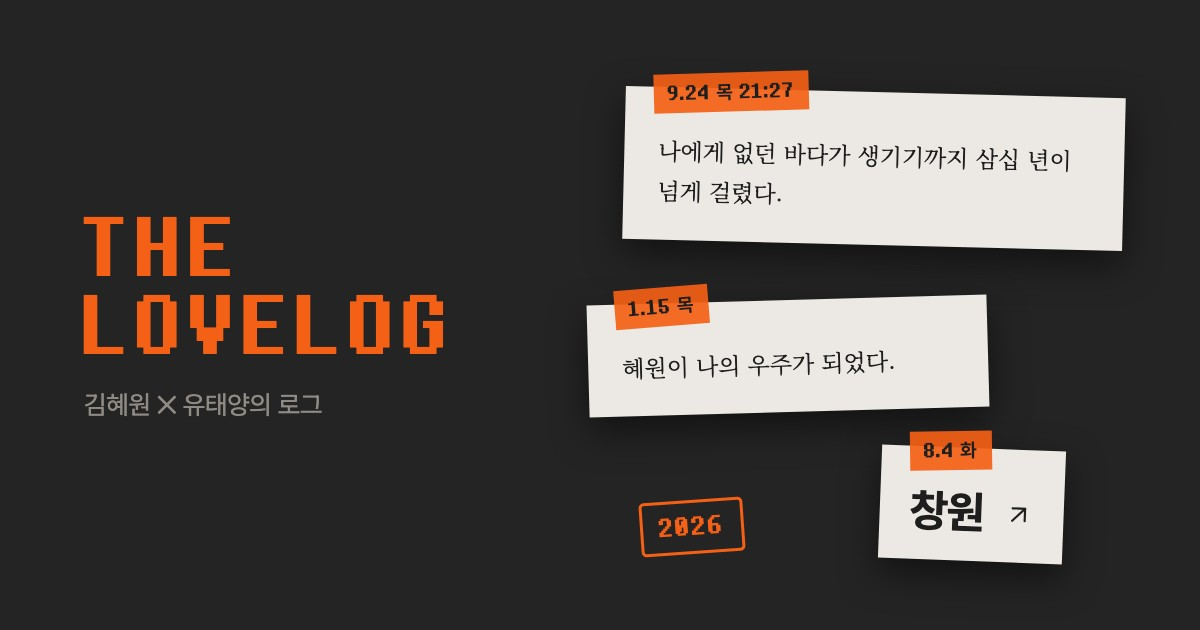
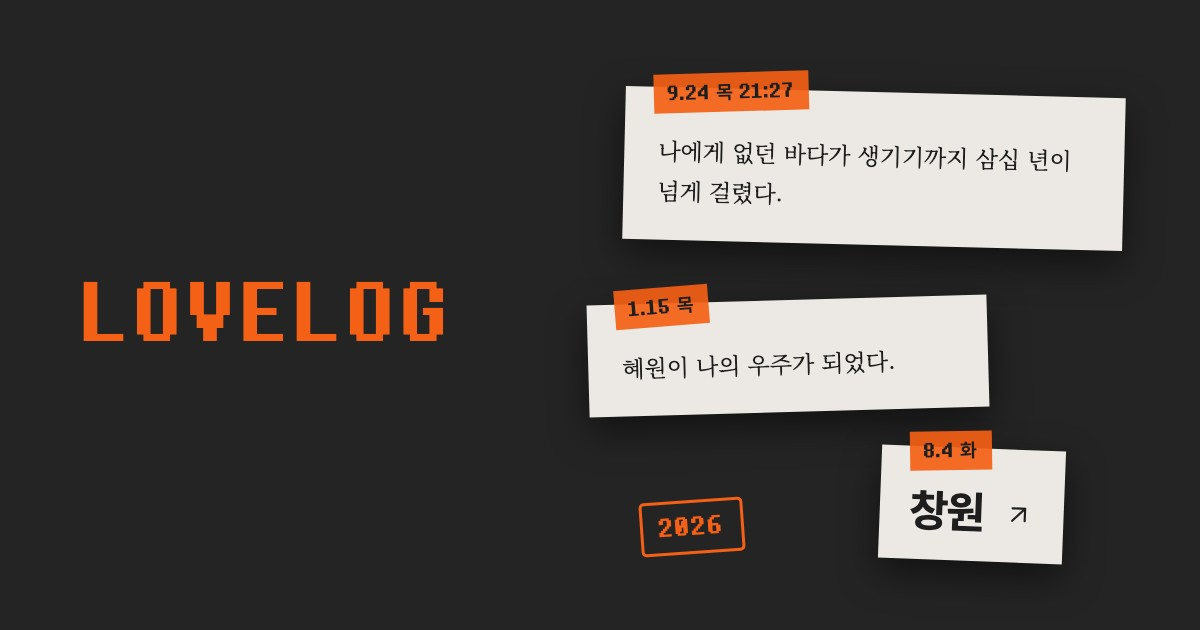
Update og.jpg wordmark to LOVELOG
Claude-Session: https://claude.ai/code/session_01Y5gqpUHtGPvx2J7ExvM4Fd

Changed region(s): [[0.0617, 0.3317, 0.37, 0.573], [0.0617, 0.6032, 0.2775, 0.6635]]

diff --git a/index.html b/index.html
@@ -29,7 +29,7 @@
 		<meta property="og:url" content="https://lovelog.tyange.com/" />
 		<meta property="og:title" content="LOVELOG" />
 		<meta property="og:description" content="결혼 전부터 이어지는 기록." />
-		<meta property="og:image" content="https://lovelog.tyange.com/og.jpg?v=2" />
+		<meta property="og:image" content="https://lovelog.tyange.com/og.jpg?v=3" />
 		<meta property="og:image:type" content="image/jpeg" />
 		<meta property="og:image:width" content="1200" />
 		<meta property="og:image:height" content="630" />
